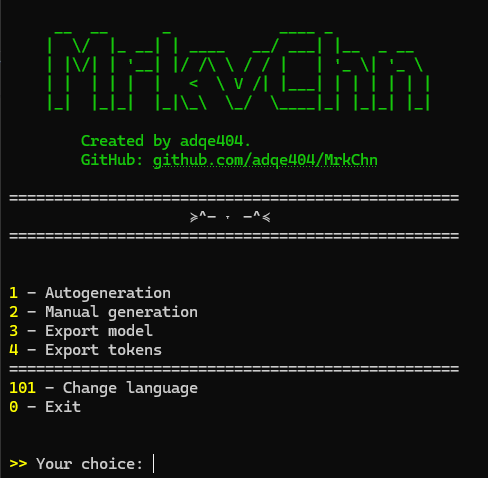
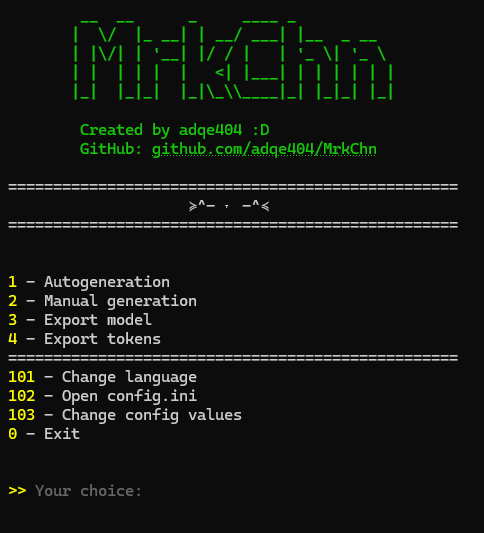
more interactions with config

diff --git a/classes/ConfigParser.py b/classes/ConfigParser.py
@@ -5,6 +5,8 @@ import re
 import random
 from .Language import Language
 from rich.console import Console
+from rich.table import Table
+from rich.box import ROUNDED
 console = Console(highlight=False)
 rinput = console.input
 rprint = console.print
@@ -97,7 +99,7 @@ kitties_title = True""")
             self.text_len = self.parse_data('Settings', 'text_len')
             self.txt_filename = self.parse_data('Settings', 'txt_filename')
             self.gen_num = self.parse_data('Settings', 'gen_num')
-            self.language = self.parse_data('Settings', 'language')
+            self.language_data = self.parse_data('Settings', 'language')
             self.kitties_title = self.parse_data('Settings', 'kitties_title')
         except Exception as e:
             self.create_config()
@@ -110,3 +112,27 @@ kitties_title = True""")
             os.system(f'open "config.ini"')
         else:
             os.system(f'xdg-open "config.ini"')
+            
+    def change_values_in_config(self):
+        while True:
+            try:
+                rprint(self.language.string[self.language.get_lang()]["current_config_values"].format(config = open('config.ini', 'r', encoding='utf-8').read()))
+                choices = ['seed', 'text_len', 'txt_filename', 'gen_num', 'language', 'kitties_title']
+                table = Table(box = ROUNDED)
+                table.add_column("№", style='yellow1')
+                table.add_column(self.language.string[self.language.get_lang()]["keys"])
+                for i, choice in enumerate(choices, start=1):
+                    table.add_row(str(i), choice)
+                rprint(table)
+                choice = self.main.input_with_check(self.language.string[self.language.get_lang()]["your_choice_config"])
+                if choice.lower() in ('exit', '0'): break
+                if int(choice) in range(1, 7):
+                    index = int(choice) - 1
+                    value = self.main.input_with_check(self.language.string[self.language.get_lang()]["enter_new_config_value"].format(config_key = choices[index]))
+                    self.write_in_config(choices[index], value)
+                    rprint(self.language.string[self.language.get_lang()]["config_value_successfully_updated"].format(config_key = choices[index], config_value = value))
+                    self.main.input_with_check(self.language.string[self.language.get_lang()]["press_enter"])
+                self.main.title()
+            except:
+                self.main.title(self.language.string[self.language.get_lang()]["wrong_input"])
+                    

diff --git a/classes/Main.py b/classes/Main.py
@@ -15,14 +15,16 @@ class Main():
         self.config = ConfigParser(self)
         self.language = self.config.language
         
-    def input_with_check(self, text, rich_input = True):
+    def input_with_check(self, text = None, rich_input = True):
         input_text = rinput(text) if rich_input else input(text)
         self.config.check_config()
+        self.language.set_lang()
         return input_text
 
     def menu(self):
         self.config.check_config()
-        if self.config.language not in ('ru', 'en') or not self.config.language:
+        self.language.set_lang()
+        if self.config.language_data not in ('ru', 'en') or not self.config.language_data:
             self.language.change_lang()
             self.input_with_check(self.language.string[self.language.get_lang()]["press_enter"])
             self.title()
@@ -81,6 +83,11 @@ class Main():
                         rprint(self.language.string[self.language.get_lang()]["config_successfully_opened"])
                         self.input_with_check(self.language.string[self.language.get_lang()]["press_enter"])
                         self.title()
+                    case '103':
+                        self.title()
+                        self.config.change_values_in_config()
+                        self.input_with_check(self.language.string[self.language.get_lang()]["press_enter"])
+                        self.title()
                     case '0':
                         break
                     case _:
@@ -101,15 +108,16 @@ class Main():
         GitHub: [link=https://github.com/adqe404]github.com/adqe404/MrkChn[/link][/bold green]
         """)
         
-        notif = random.choice(self.language.string["kitties"]["kitties"]) if self.config.kitties_title else 'mud blood and poison'
+        notif = random.choice(self.language.string["kitties"]["kitties"]) if self.config.kitties_title else 'no kitties title :('
         width = 50
-        self.regele = f'[white]{"=" * width}[white]'
+        self.regele = "=" * width
         padding = (width - len(notif)) // 2
         rprint(f'''{self.regele}
-{some_notif if some_notif else ' ' * padding + f'[white]{notif}[white]'}
+{some_notif if some_notif else ' ' * padding + notif}
 {self.regele}\n\n''')
         
     def create_model(self):
         self.config.check_config()
+        self.language.set_lang()
         self.text = TextProcessor(self.config, self, self.language)
         self.markov_chain = MarkovChain(self.config, self.text.probabilities, self, self.language)

diff --git a/classes/Language.py b/classes/Language.py
@@ -9,7 +9,7 @@ rprint = console.print
 class Language():
     def __init__(self, config, main):
         self.config = config
-        self.lang = self.config.language
+        self.set_lang()
         self.string = self.load_json()
         self.main = main
         
@@ -43,3 +43,6 @@ class Language():
         json_path = self.get_resource_path('languages.json')
         with open(json_path, 'r', encoding='utf-8') as f:
             return json.load(f)
+        
+    def set_lang(self):
+        self.lang = self.config.language_data

diff --git a/README.md b/README.md
@@ -1,4 +1,4 @@
-# MrkChn-0.5
+# MrkChn-0.6
 my first mini simple program on python with cli for fun.  
 generating text based on markov chain  
 ~~pls dont read that shit!!~~  
